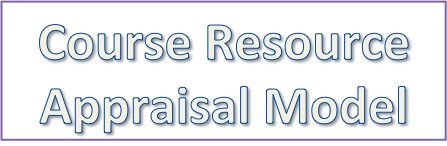
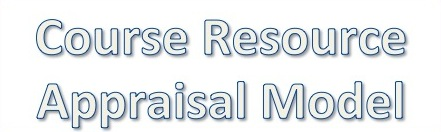
Update startup dialog (remove decoration, add title, and tidy up JPG)

diff --git a/CRAM-UI/src/uk/ac/lkl/cram/ui/StartupDialog.java b/CRAM-UI/src/uk/ac/lkl/cram/ui/StartupDialog.java
@@ -45,7 +45,9 @@ public class StartupDialog extends javax.swing.JDialog {
         buildLabel = new javax.swing.JLabel();
 
         setDefaultCloseOperation(javax.swing.WindowConstants.DO_NOTHING_ON_CLOSE);
+        setTitle("Course Resource Appraisal Model");
         setResizable(false);
+        setUndecorated(true);
 
         iconLabel.setIcon(new javax.swing.ImageIcon(getClass().getResource("/uk/ac/lkl/cram/ui/CRAM.jpg"))); // NOI18N
         getContentPane().add(iconLabel, java.awt.BorderLayout.CENTER);
